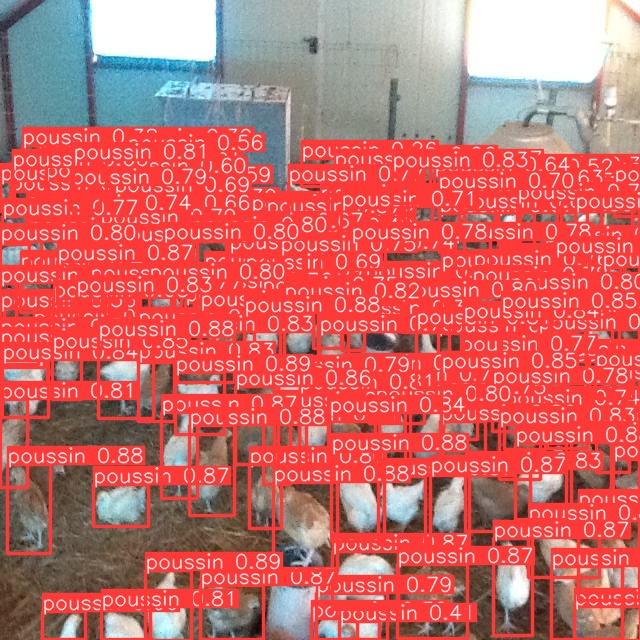
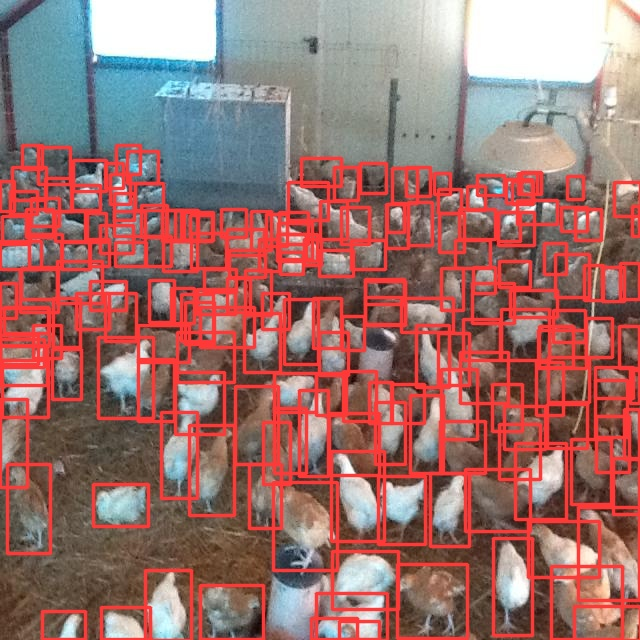
update

diff --git a/APP_projet_python_v2/IA_detect_poussin.py b/APP_projet_python_v2/IA_detect_poussin.py
@@ -26,7 +26,7 @@ class IA_detect_poussin():
     def predict_image(self, file_name):
         script_dir = os.path.dirname(__file__)
         abs_file_path = os.path.join(script_dir, 'images\\'+file_name)
-        self.model.predict(abs_file_path, save=True, imgsz=800, conf=0.2)
+        self.model.predict(abs_file_path, save=True, imgsz=800, conf=0.2, show_labels=False, show_conf=False)
 
 
         path='..\\runs\\detect\\predict\\'+file_name
